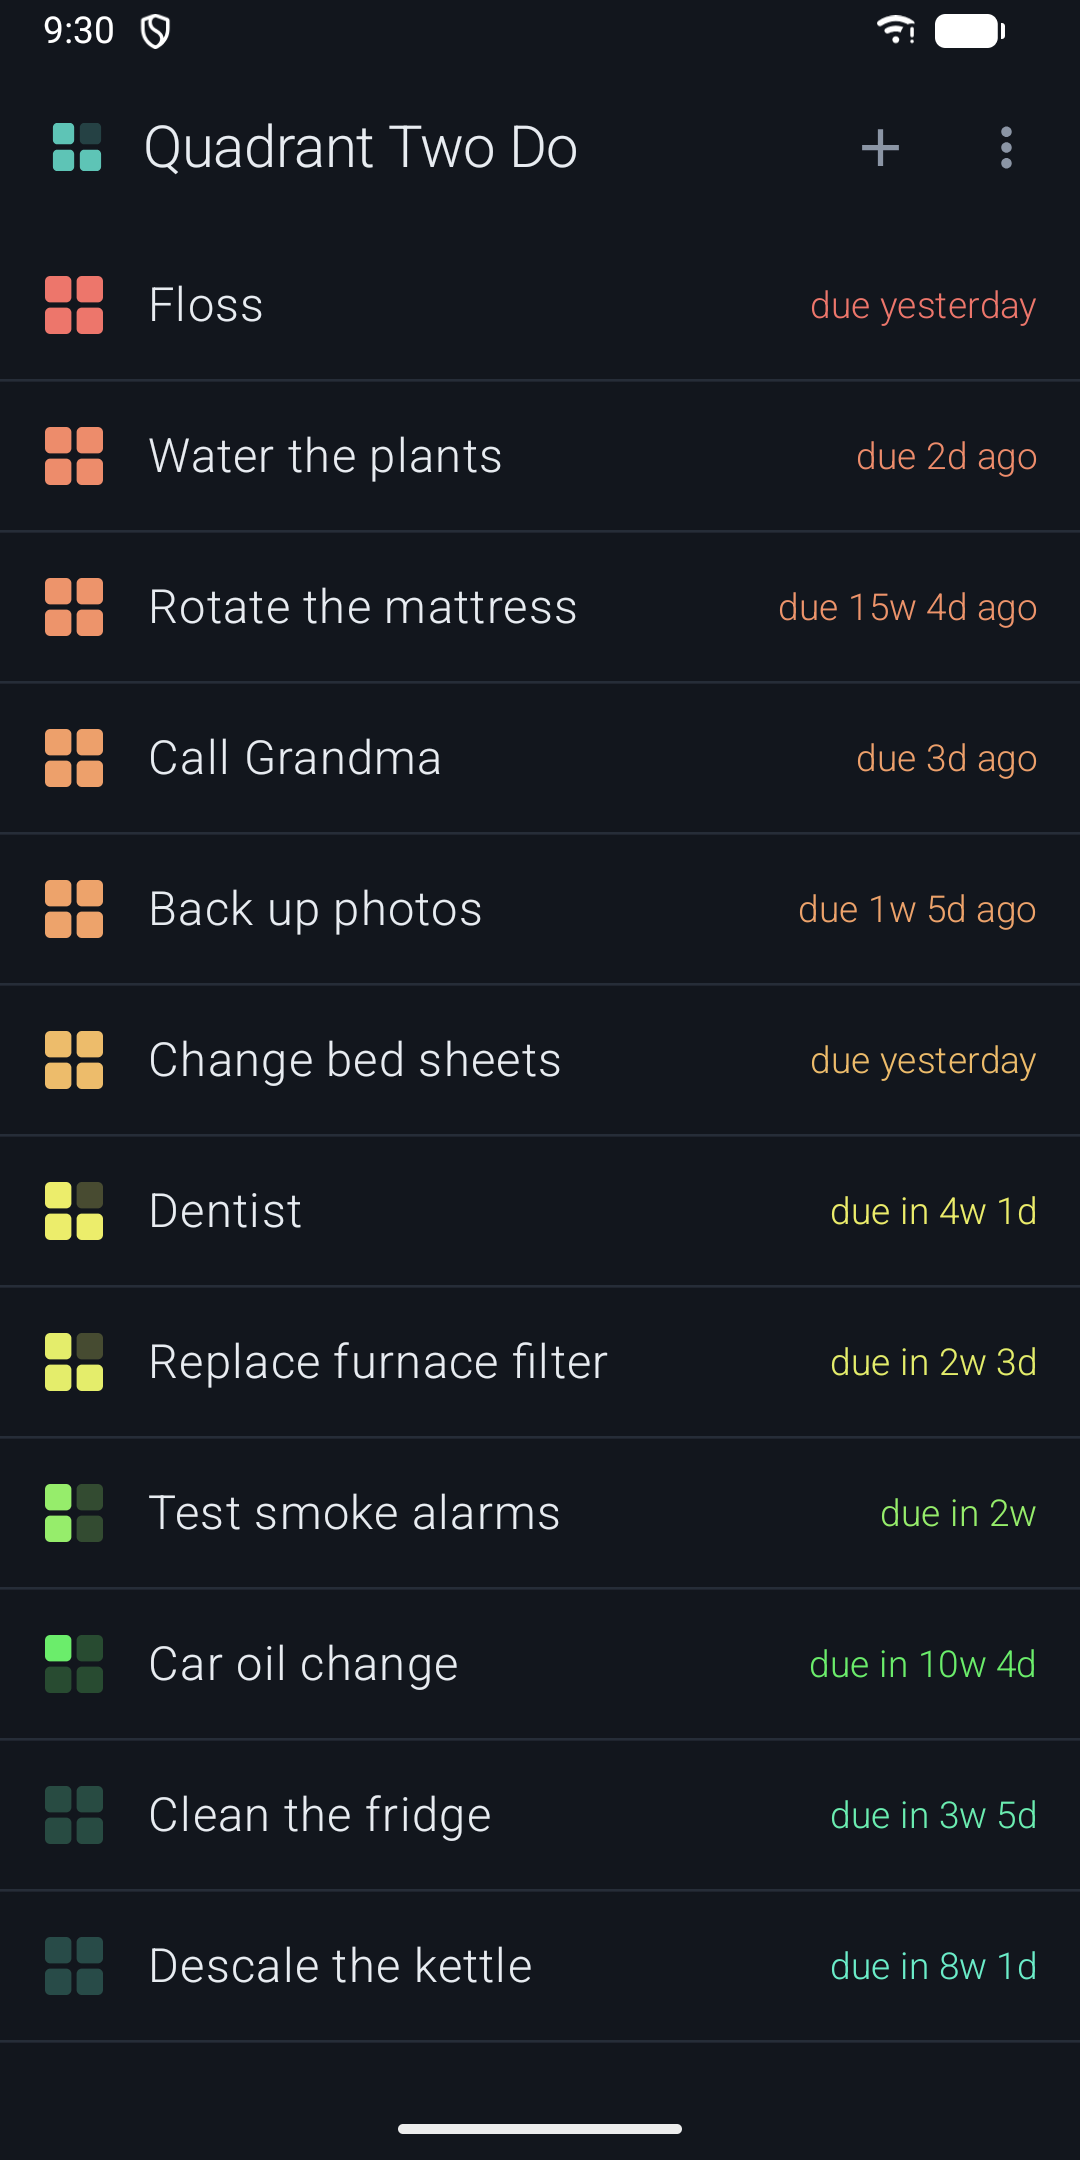
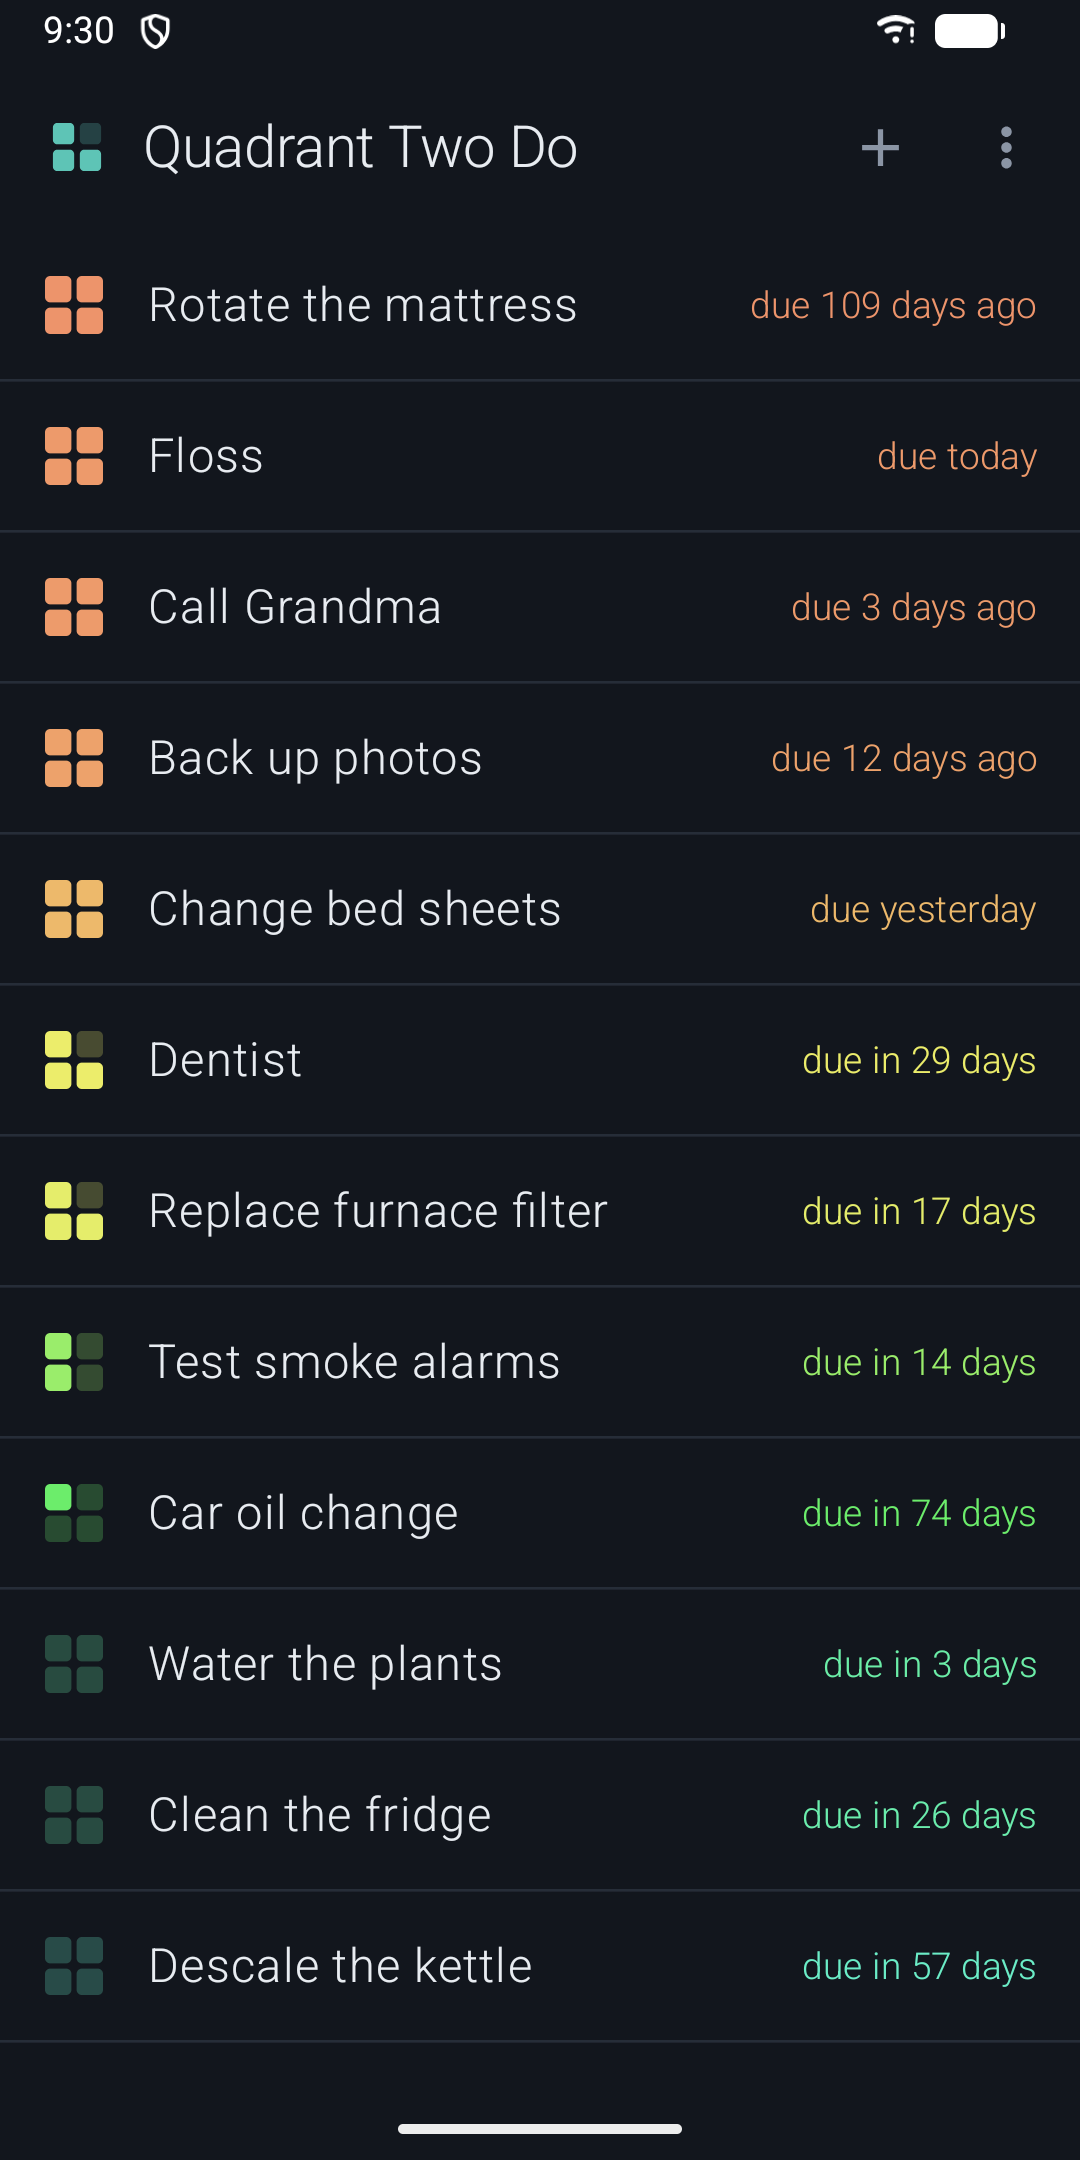
Release 0.3.0 and retake store screenshots

diff --git a/store/listing.md b/store/listing.md
@@ -39,12 +39,12 @@ access, so your data stays on your phone.
 | Feature graphic (1024 × 500) | `feature-1024x500.png` |
 | Phone screenshots (1080 × 2160), in this order | `screenshots/1-list.png` (dark), `2-details.png`, `3-period.png`, `4-list-light.png`, `5-settings.png` (light) |
 
-Screenshots use made-up sample tasks, not real data. Taken from version 0.2.0.
+Screenshots use made-up sample tasks, not real data. Taken from version 0.3.0.
 
-## Release notes: 0.2.0
+## Release notes: 0.3.0
 
 ```
 <en-US>
-Light and dark themes, a new Settings screen (theme, widget background, nine colour schemes), and a widget that lines up with your other widgets and fits more tasks.
+Day counts are shown in plain days ("due in 17 days"), the widget has shorter labels ("2d late", "in 29d"), and it updates faster after you log a task.
 </en-US>
 ```
